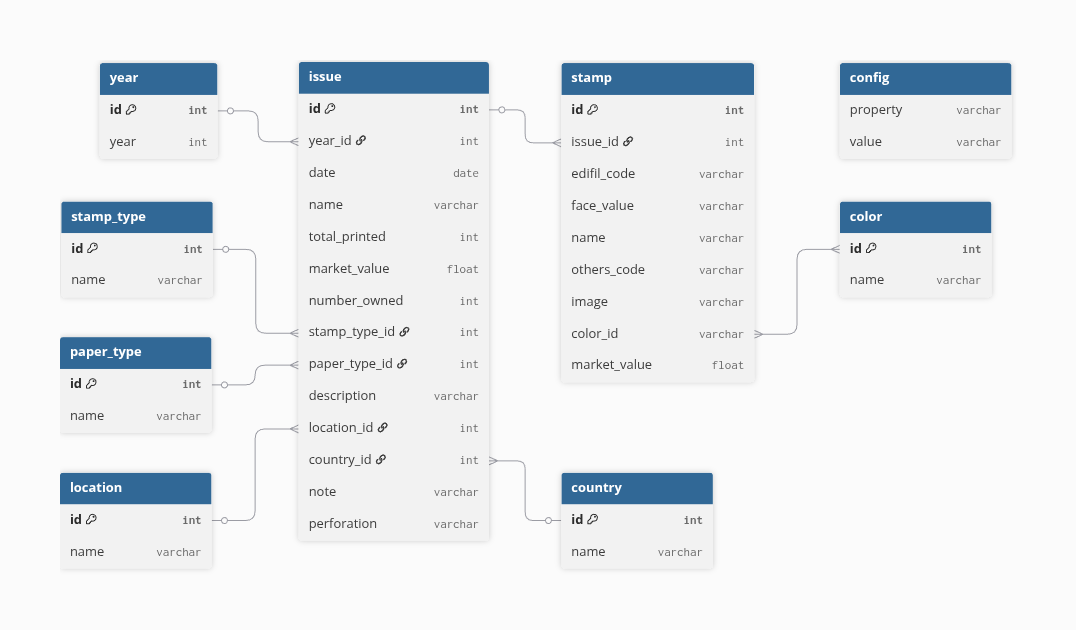
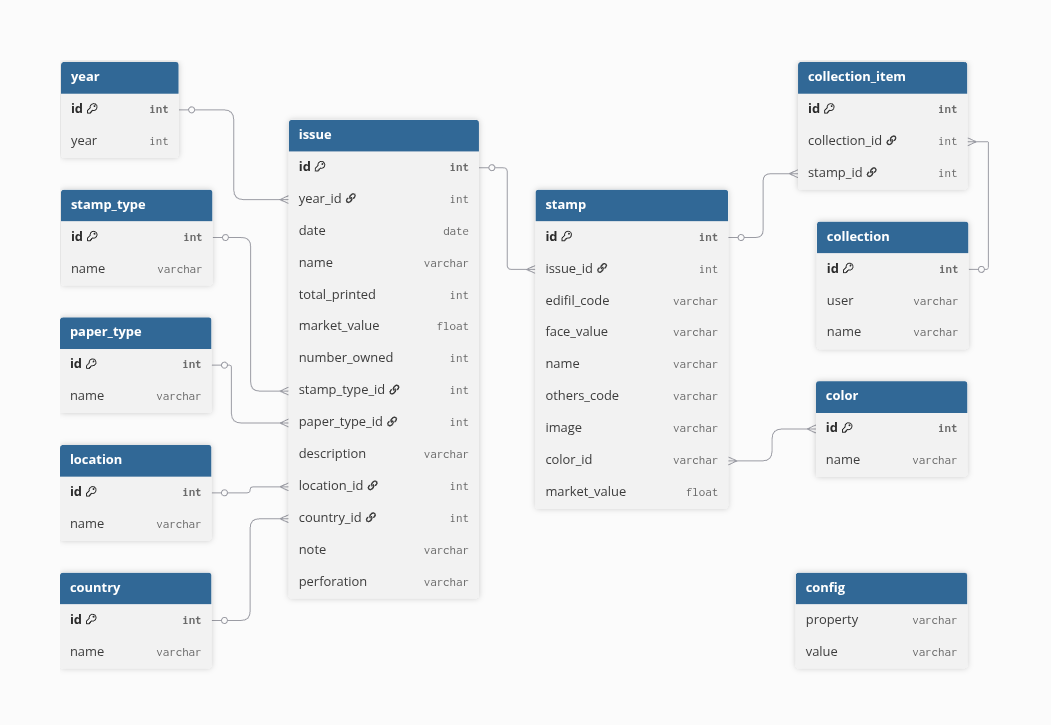
Updated doc

diff --git a/README.md b/README.md
@@ -13,78 +13,138 @@ This document provides a detailed description of the database schema for the Sta
 
 The overall database structure is illustrated below:
 
-![alt text](stamps_api_server/resources/stamps-db-model.png)
+![alt text](backend/resources/stamps-db-model.png)
 
-### Table Definitions
+#### 1. Core Entities
 
-#### 1. `Year` Table
-This table provides a chronological framework for organizing stamp issues.
-- **id (int, PK):** Unique identifier for each year entry.
-- **year (int):** The calendar year associated with stamp issues.
+#### `issue`
+Represents a specific issue of stamps, often a series or set released at a particular time. This is the central entity linking various lookup tables.
 
-#### 2. `Issue` Table
-The `issue` table serves as the central hub of the schema, connecting most related entities. It represents a set of stamps released for a specific theme or purpose.
-- **id (int, PK):** Unique identifier for each issue.
-- **year_id (int, FK):** References the `Year` table, linking an issue to a specific year.
-- **date (date):** The exact release date of the issue.
-- **country_id (int, FK):** References the `Country` table, linking an issue to a specific country.
-- **name (varchar):** The official name or title of the issue.
-- **number_issued (int):** Total number of issues released for this theme.
-- **value (float):** The total face value of the entire issue.
-- **number_owned (int):** The quantity of this issue owned by the collector.
-- **number_stamps (int):** The total number of distinct stamps included in this issue.
-- **stamp_type (int, FK):** References the `Stamp_Type` table to categorize the issue.
-- **paper_type (int, FK):** References the `Paper_Type` table to specify the paper used.
-- **total_value (float):** The cumulative value of stamps owned from this issue.
-- **description (varchar):** A descriptive text about the issue.
-- **located_in (int, FK):** References the `Location` table to specify where the issue is stored.
-- **note (varchar):** Additional notes or remarks.
-- **perforated (varchar):** Details about the stamp perforation.
+| Column Name | Data Type | Key Type | Description |
+| :--- | :--- | :--- | :--- |
+| **id** | `INT` | PK | Unique identifier for the issue. |
+| **year_id** | `INT` | FK | The year of the issue (links to `year.id`). |
+| **date** | `DATE` | | Release date of the issue. |
+| **name** | `VARCHAR` | | Name or description of the issue. |
+| **total_printed** | `INT` | | Total number of stamps printed for this issue. |
+| **market_value** | `FLOAT` | | Estimated market value of the issue as a set. |
+| **number_owned** | `INT` | | Number of stamps from this issue owned by the user. |
+| **stamp_type_id** | `INT` | FK | Type of stamp in this issue (links to `stamp_type.id`). |
+| **paper_type_id** | `INT` | FK | Type of paper used (links to `paper_type.id`). |
+| **description** | `VARCHAR` | | Detailed description of the issue. |
+| **location_id** | `INT` | FK | Associated location for the issue (links to `location.id`). |
+| **country_id** | `INT` | FK | Country of origin for the issue (links to `country.id`). |
+| **note** | `VARCHAR` | | Any additional notes for the issue. |
+| **perforation** | `VARCHAR` | | Perforation details (e.g., "13", "11.5x12"). |
 
-#### 3. `Stamp` Table
-This table details individual stamps within a given issue, including catalog and physical attributes.
-- **id (int, PK):** Unique identifier for each stamp.
-- **issue_id (int, FK):** References the `Issue` table, linking the stamp to its parent issue.
-- **edifil_code (varchar):** Catalog code from the Edifil cataloging system.
-- **face_value (varchar):** The nominal printed value on the stamp.
-- **name (varchar):** The name or description of the individual stamp.
-- **others_code (varchar):** Additional catalog codes from other systems.
-- **image (varchar):** Path or reference to an image representing the stamp.
-- **color (varchar):** The primary color of the stamp.
+#### `stamp`
+Represents an individual stamp within an `issue`.
 
-#### 4. `Stamp_Type` Table
-This table defines classification categories for stamp issues.
-- **id (int, PK):** Unique identifier for each stamp type.
-- **name (varchar):** The name of the stamp type (e.g., "Commemorative", "Definitive", "Airmail").
+| Column Name | Data Type | Key Type | Description |
+| :--- | :--- | :--- | :--- |
+| **id** | `INT` | PK | Unique identifier for the stamp. |
+| **issue_id** | `INT` | FK | The issue this stamp belongs to (links to `issue.id`). |
+| **edifil_code** | `VARCHAR` | | Edifil catalog code for the stamp. |
+| **face_value** | `VARCHAR` | | Denominative face value (e.g., "10c", "1€"). |
+| **name** | `VARCHAR` | | Name or description of the individual stamp. |
+| **others_code** | `VARCHAR` | | Other catalog codes for the stamp. |
+| **image** | `VARCHAR` | | Path or URL to the image of the stamp. |
+| **color_id** | `INT` | FK | The main color of the stamp (links to `color.id`). |
+| **market_value** | `FLOAT` | | Estimated market value of the individual stamp. |
 
-#### 5. `Location` Table
-This table tracks the physical or logical storage location of stamp issues.
-- **id (int, PK):** Unique identifier for each storage location.
-- **name (varchar):** Describes the storage location (e.g., "Main Album", "Folder B", "Box 1").
+---
 
-#### 6. `Country` Table
-This table lists the countries of origin for the stamp issues.
-- **id (int, PK):** Unique identifier for each country.
-- **name (varchar):** The name of the country.
+#### 2. Collection Management
 
-#### 7. `Paper_Type` Table
-This table defines the types of paper used for stamp issues.
-- **id (int, PK):** Unique identifier for each paper type.
-- **name (varchar):** The name of the paper type (e.g., "Coated", "Uncoated", "Granite").
+#### `collection`
+Represents a user's personal stamp collection.
 
-#### 8. `Config` Table
-This table provides a key-value store for system-level configuration settings or customizable application metadata.
-- **property (varchar, PK):** The name of the configuration property.
-- **value (varchar):** The value assigned to the property.
+| Column Name | Data Type | Key Type | Description |
+| :--- | :--- | :--- | :--- |
+| **id** | `INT` | PK | Unique identifier for the collection. |
+| **user** | `VARCHAR` | | Identifier for the user who owns the collection. |
+| **name** | `VARCHAR` | | Name of the collection. |
 
-### Relationships
-The primary relationships between the tables are as follows:
-- **One-to-Many:** A `Year` can have multiple `Issues`.
-- **One-to-Many:** A `Country` can have multiple `Issues`.
-- **One-to-Many:** An `Issue` can contain multiple `Stamps`.
-- **Many-to-One:** Each `Issue` is associated with one `Stamp_Type`.
-- **Many-to-One:** Each `Issue` is associated with one `Paper_Type`.
-- **Many-to-One:** Each `Issue` is stored in one `Location`.
+#### `collection_item`
+A junction table linking individual stamps to user collections, essentially recording ownership.
+
+| Column Name | Data Type | Key Type | Description |
+| :--- | :--- | :--- | :--- |
+| **id** | `INT` | PK | Unique identifier for the collection item instance. |
+| **collection_id** | `INT` | FK | The collection this item belongs to (links to `collection.id`). |
+| **stamp_id** | `INT` | FK | The individual stamp included (links to `stamp.id`). |
+
+---
+
+#### 3. Lookup Tables (Reference Data)
+
+#### `year`
+Stores the unique years associated with stamp issues.
+
+| Column Name | Data Type | Key Type | Description |
+| :--- | :--- | :--- | :--- |
+| **id** | `INT` | PK | Unique identifier. |
+| **year** | `INT` | | The specific year value. |
+
+#### `stamp_type`
+Categorizes the different types of stamps.
+
+| Column Name | Data Type | Key Type | Description |
+| :--- | :--- | :--- | :--- |
+| **id** | `INT` | PK | Unique identifier. |
+| **name** | `VARCHAR` | | Name of the stamp type (e.g., "Commemorative", "Definitive"). |
+
+#### `paper_type`
+Defines the types of paper used for stamps.
+
+| Column Name | Data Type | Key Type | Description |
+| :--- | :--- | :--- | :--- |
+| **id** | `INT` | PK | Unique identifier. |
+| **name** | `VARCHAR` | | Name of the paper type. |
+
+#### `location`
+Stores geographical locations relevant to stamp issues (e.g., cities, regions).
+
+| Column Name | Data Type | Key Type | Description |
+| :--- | :--- | :--- | :--- |
+| **id** | `INT` | PK | Unique identifier. |
+| **name** | `VARCHAR` | | Name of the location. |
+
+#### `country`
+Lists countries associated with stamp issues.
+
+| Column Name | Data Type | Key Type | Description |
+| :--- | :--- | :--- | :--- |
+| **id** | `INT` | PK | Unique identifier. |
+| **name** | `VARCHAR` | | Name of the country. |
+
+#### `color`
+Defines available colors for stamps.
+
+| Column Name | Data Type | Key Type | Description |
+| :--- | :--- | :--- | :--- |
+| **id** | `INT` | PK | Unique identifier. |
+| **name** | `VARCHAR` | | Name of the color (e.g., "Red", "Blue"). |
+
+#### 4. Configuration
+
+#### `config`
+Stores application configuration settings as simple key-value pairs.
+
+| Column Name | Data Type | Key Type | Description |
+| :--- | :--- | :--- | :--- |
+| **property** | `VARCHAR` | PK | Name of the configuration property (key). |
+| **value** | `VARCHAR` | | Value of the configuration property. |
+
+#### 5. Relationships Summary
+
+| Source Table | Relationship | Target Table | Description |
+| :--- | :--- | :--- | :--- |
+| **`issue`** | Many-to-One (FKs) | `year`, `stamp_type`, `paper_type`, `location`, `country` | An `issue` is categorized by a single entry from each of these reference tables. |
+| **`stamp`** | Many-to-One (FK) | `issue` | Every `stamp` belongs to one specific `issue`. |
+| **`stamp`** | Many-to-One (FK) | `color` | Every `stamp` is associated with one primary `color`. |
+| **`collection_item`** | Many-to-One (FK) | `collection` | Every `collection_item` belongs to one `collection`. |
+| **`collection_item`** | Many-to-One (FK) | `stamp` | Every `collection_item` records the ownership of one specific `stamp`. |
 
 ### REST API Endpoints 
 For detailed information about all available REST endpoints, please refer to the [API Documentation](./api.md).
@@ -97,3 +157,4 @@ TBD.
 - https://justpy.io/ for Frontend
 - https://github.com/reactive-python/reactpy for Frontend
 - https://www.gradio.app/ for Frontend
+- https://reflex.dev/ for Frontend
